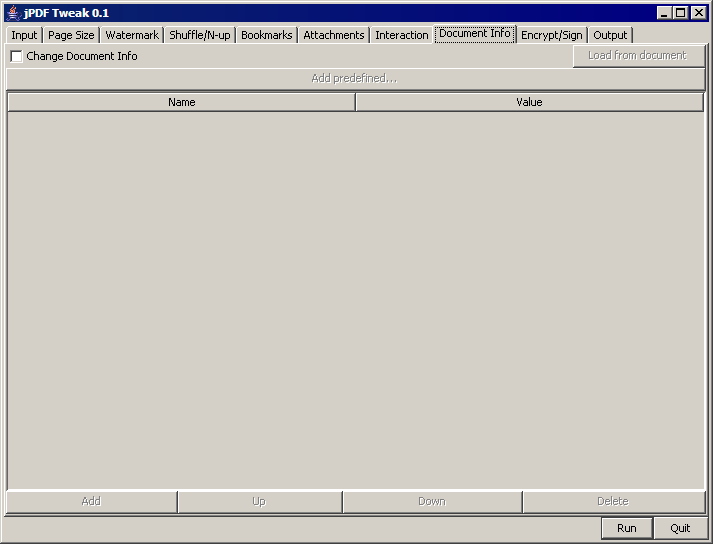
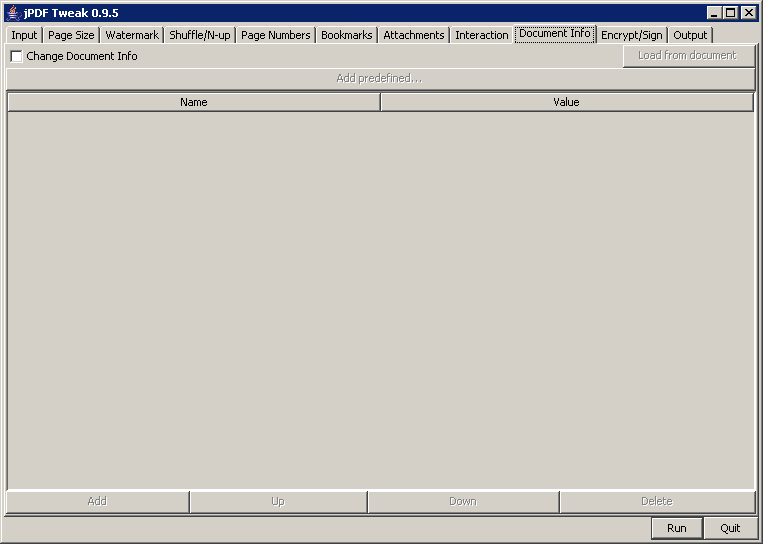
update screenshots

diff --git a/trunk/jpdftweak/manual/index.html b/trunk/jpdftweak/manual/index.html
@@ -33,7 +33,7 @@ or running</p>
   finished setting options.</p>
 
 <h3>The Input Tab</h3>
-<p><img src="shot01.png" width="713" height="544" alt="Input Options"></p>
+<p><img src="shot01.png" width="763" height="544" alt="Input Options"></p>
 
 <p>Select an input file to manipulate. If you want to combine multiple
   files, check the checkbox and add more files. They will end up in
@@ -49,7 +49,7 @@ or running</p>
   (like programmers count).</p>
 
 <h3>The Page Size Tab</h3>
-<p><img src="shot02.png" width="713" height="544" alt="Page Size Options"></p>
+<p><img src="shot02.png" width="763" height="544" alt="Page Size Options"></p>
 
 <p><b>Rotate Pages</b>: If you have a PDF that has both Portrait and Landscape pages, and
   your printer has problems in printing both, you can rotate the pages
@@ -84,7 +84,7 @@ or running</p>
 
 
 <h3>The Watermark Tab</h3>
-<p><img src="shot03.png" width="713" height="544" alt="Watermark Options"></p>
+<p><img src="shot03.png" width="763" height="544" alt="Watermark Options"></p>
 
 <p>Here you can add two kinds of watermarks and page numbers. The text
   watermark appears on top of the content, the PDF watermark on
@@ -102,7 +102,7 @@ function</a>, and supports the current page number and the total
 number of pages as parameters.</p>
 
 <h3>The Shuffle/N-up Tab</h3>
-<p><img src="shot04.png" width="713" height="544" alt="Shuffle/N-up Options"></p>
+<p><img src="shot04.png" width="763" height="544" alt="Shuffle/N-up Options"></p>
 
 <p>This might be the most powerful, and the most complex tab. Choose
   a preset and stick with it <tt>:-)</tt></p>
@@ -134,7 +134,7 @@ number of pages as parameters.</p>
   correct.</p>
 
 <h3>The Page Numbers Tab</h3>
-<p><i>(No screenshot available)</i></p>
+<p><img src="shot04a.png" width="763" height="544" alt="Shuffle/N-up Options"></p>
 
 <p>Here you can tweak the page numbers that appear in your PDF
 reader. Depending on your PDF reader, they can be used for displaying
@@ -172,7 +172,7 @@ Reader don't really like that. You can work around it by setting a
 prefix for these pages or use different number styles.</p>
 
 <h3>The Bookmarks Tab</h3>
-<p><img src="shot05.png" width="713" height="544" alt="Bookmark Options"></p>
+<p><img src="shot05.png" width="763" height="544" alt="Bookmark Options"></p>
 
 <p>Here you can tweak chapter bookmarks. If you selected more than one
 input file, chapter bookmarks will be combined automatically. But if
@@ -187,7 +187,7 @@ GhostScript) which shows coordinates when moving the cursor on a PDF
 file.</p>
 
 <h3>The Attachments Tab</h3>
-<p><img src="shot06.png" width="713" height="544" alt="Attachment Options"></p>
+<p><img src="shot06.png" width="763" height="544" alt="Attachment Options"></p>
 
 <p>Here you can add attachments and remove files you erroneously
   attached before. This view does not show which files have been
@@ -195,7 +195,7 @@ file.</p>
   viewer to save them and reattach them if necessary.</p>
 
 <h3>The Interaction Tab</h3>
-<p><img src="shot07.png" width="713" height="544" alt="Interaction Options"></p>
+<p><img src="shot07.png" width="763" height="544" alt="Interaction Options"></p>
 
 <p>This tab is interesting. When a PDF file is shown in full screen
   mode, pages can flip automatically and/or with a nice effect. Select
@@ -204,14 +204,14 @@ file.</p>
   the right.</p>
 
 <h3>The Document Info Tab</h3>
-<p><img src="shot08.png" width="713" height="544" alt="Document Info Options"></p>
+<p><img src="shot08.png" width="763" height="544" alt="Document Info Options"></p>
 
 <p>Here you can add information to the document info dictionary (shown
   when you open "Document summary"</p>
 
 
 <h3>The Encrypt/Sign Tab</h3>
-<p><img src="shot09.png" width="713" height="544" alt="Encrypt/Sign Options"></p>
+<p><img src="shot09.png" width="763" height="544" alt="Encrypt/Sign Options"></p>
 
 <p>Encrypting is quite standard nowadays, so I won't write much
   here. If you know the owner password, you may do everything with the
@@ -225,7 +225,7 @@ file.</p>
   from here.</p>
 
 <h3>The Output Tab</h3>
-<p><img src="shot10.png" width="713" height="544" alt="Output Options"></p>
+<p><img src="shot10.png" width="763" height="544" alt="Output Options"></p>
 
 <p>Don't forget this tab! Select an output filename here.</p>
 
